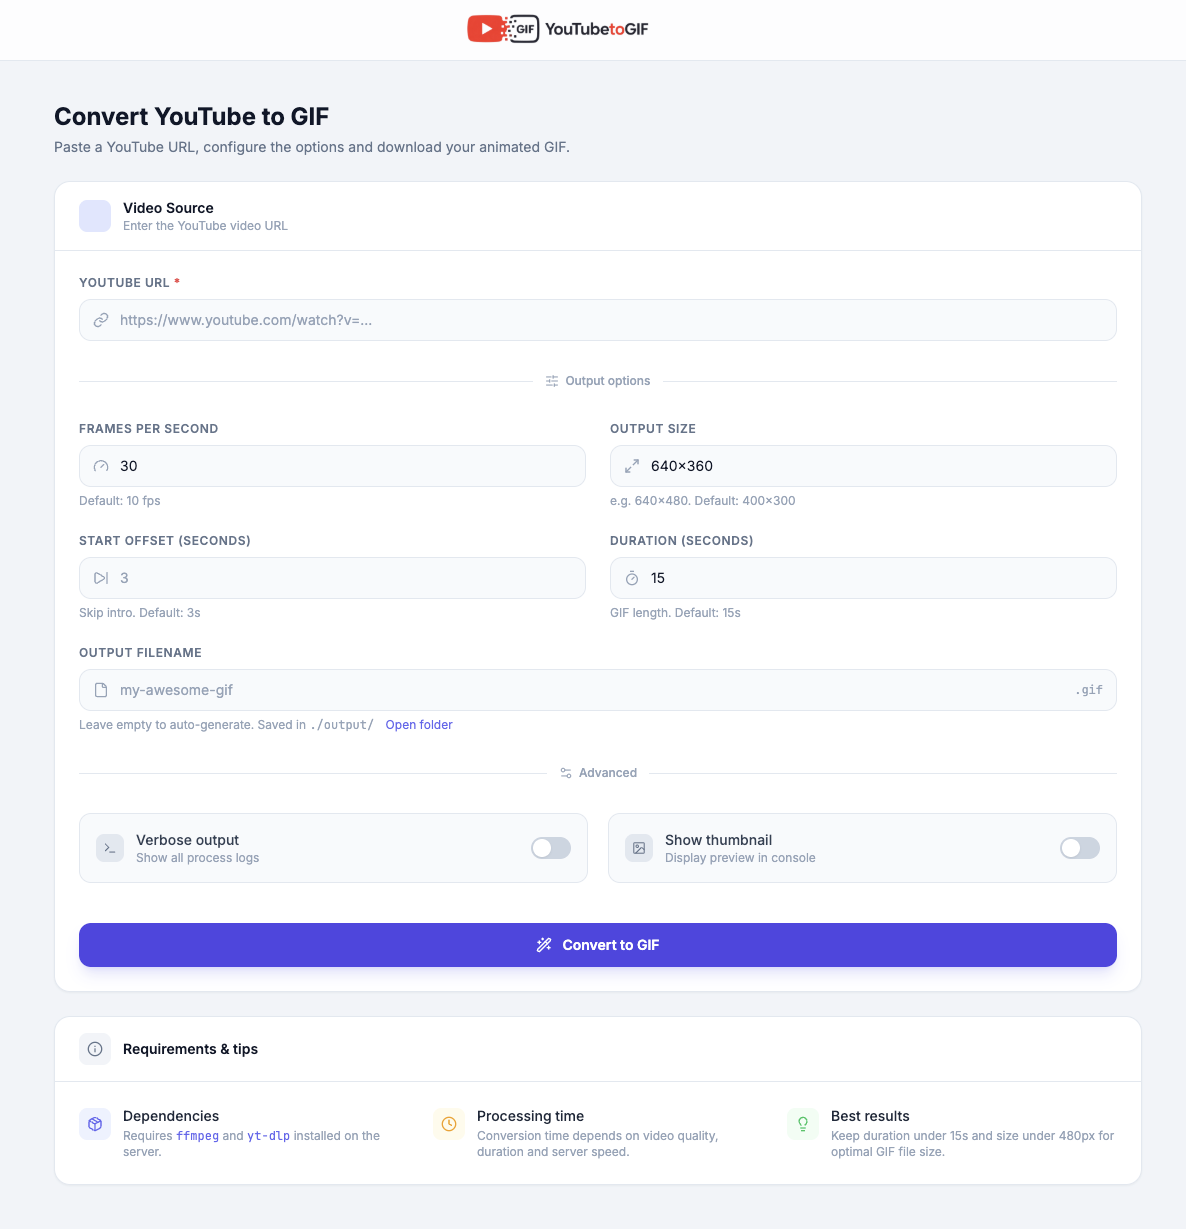
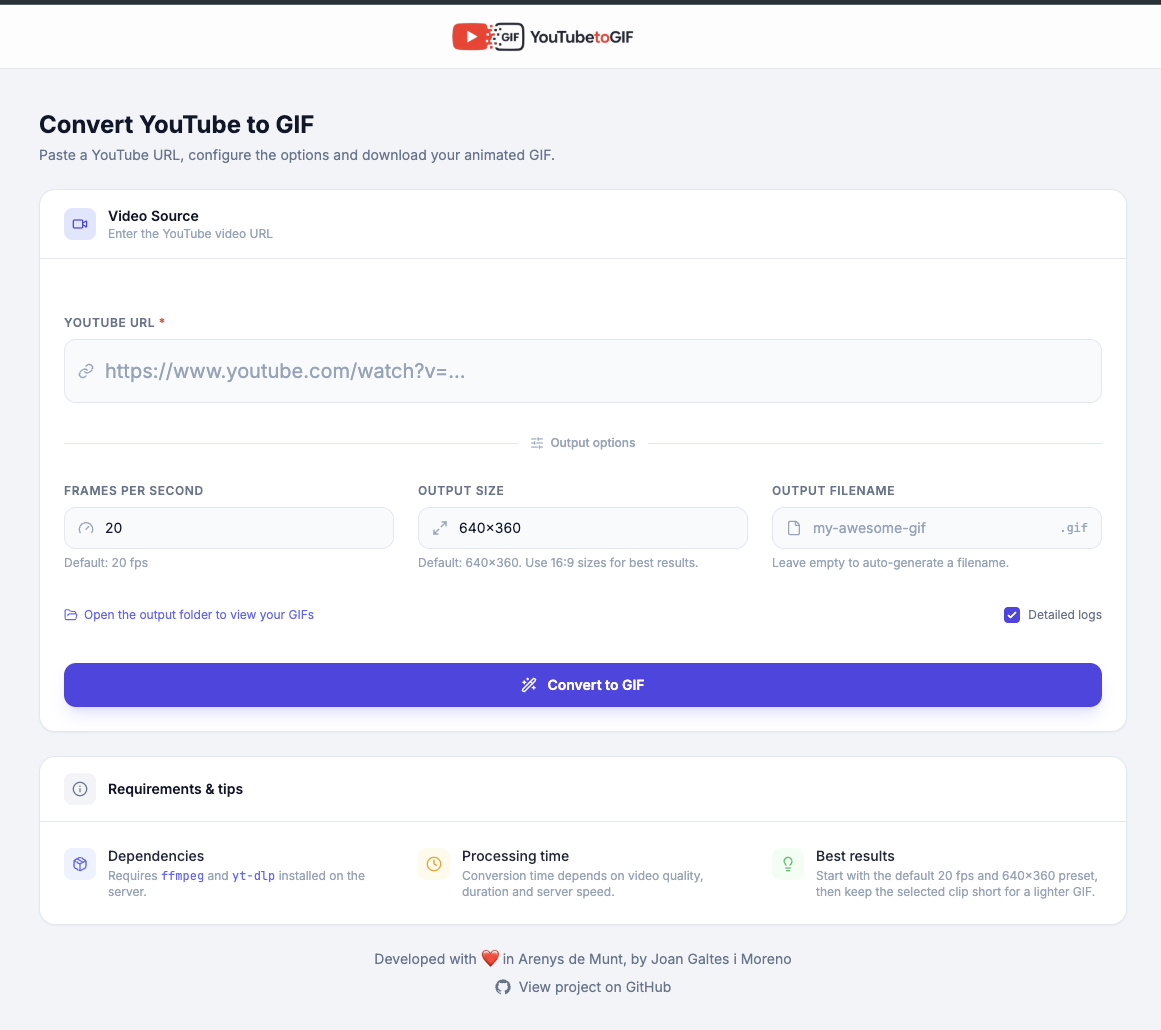
Updated README.md

diff --git a/README.md b/README.md
@@ -15,7 +15,8 @@ A web application to convert YouTube videos into animated GIFs — right from yo
 ## Features
 
 - **One-click conversion** — paste a YouTube URL and hit convert
-- **Full option control** — FPS, dimensions, start offset, duration and output filename
+- **Full option control** — FPS, dimensions, clip range and output filename
+- **Local video preview** — scrub and loop the selected clip before generating the GIF
 - **Live log terminal** — real-time conversion output streamed via Server-Sent Events (SSE)
 - **GIF preview** — inline preview and one-click download when done
 - **Modern UI** — Tailwind CSS interface with dark/light mode toggle and smooth animations
@@ -58,7 +59,7 @@ brew install ffmpeg yt-dlp
 
 ```bash
 # 1. Clone and install dependencies
-git clone https://github.com/your-username/youtube-to-gif.git
+git clone https://github.com/donbuche/youtube-to-gif.git
 cd youtube-to-gif
 npm install
 
@@ -93,12 +94,11 @@ The UI exposes the conversion settings supported by the app:
 | Option | Description | Default |
 |---|---|---|
 | **URL** | YouTube video URL | *(required)* |
-| **FPS** | Frames per second of the output GIF | `30` |
+| **FPS** | Frames per second of the output GIF | `20` |
 | **Size** | Output dimensions (e.g. `640x360`) | `640x360` |
-| **Start offset** | Skip the first N seconds of the video | `3` |
-| **Duration** | Length of the GIF in seconds | `15` |
+| **Clip range** | Start and end points selected with the dual range slider | full preview duration |
 | **Output filename** | Custom name for the `.gif` file | auto-generated |
-| **Verbose** | Show full process output in the log terminal | off |
+| **Detailed logs** | Show full process output in the log terminal | on |
 
 Generated GIFs are saved to the `./output/` directory and served statically.
 
@@ -111,8 +111,9 @@ youtube-to-gif/
 ├── assets/
 │   └── screenshot.png               # README screenshot
 ├── public/
-│   ├── index.html                   # UI — Tailwind CSS, dark/light mode, form
-│   └── app.js                       # Client-side logic — form handling, SSE, state
+│   ├── favicon.ico                  # App favicon
+│   ├── index.html                   # UI — preview player, form, results, footer
+│   └── app.js                       # Client-side logic — form, preview, SSE, state
 ├── output/                          # Generated GIF files (git-ignored)
 ├── server.js                        # Express server — REST API + SSE streaming
 ├── yt-dlp-cookies.txt               # Optional Netscape cookies file (git-ignored)
@@ -134,6 +135,8 @@ yt-dlp                  ← resolves the downloadable media URL
   │
   ▼
 temporary local video   ← downloaded by yt-dlp with the active auth strategy
+  │
+  ├─► /api/preview      ← served to the browser as a local HTML5 <video> preview
   │
   ▼
 ffmpeg                  ← trims, scales and encodes the GIF
@@ -158,10 +161,11 @@ npm run start:chrome
 
 ## Notes
 
-- Output GIFs are **not** git-tracked (`output/` is in `.gitignore`). Files are ephemeral and cleaned up after 10 minutes by the server.
+- Output GIFs are **not** git-tracked (`output/` is in `.gitignore`).
 - Some YouTube videos require authenticated cookies for `yt-dlp`. You can place a Netscape-format cookies file at `./yt-dlp-cookies.txt` or set `YT_DLP_COOKIES_FILE` to another path before starting the server.
 - For bot-protected videos, browser cookies are often more reliable than an exported `cookies.txt`. In local mode, use `npm run start:chrome`.
 - The app downloads a temporary local source file before invoking `ffmpeg`, which avoids HLS segment `403` errors from protected YouTube manifests.
+- The clip preview is also generated from a temporary local download and exposed through `/api/preview/*`. These preview temp files are cleaned up automatically after 30 minutes.
 
 ---
 
